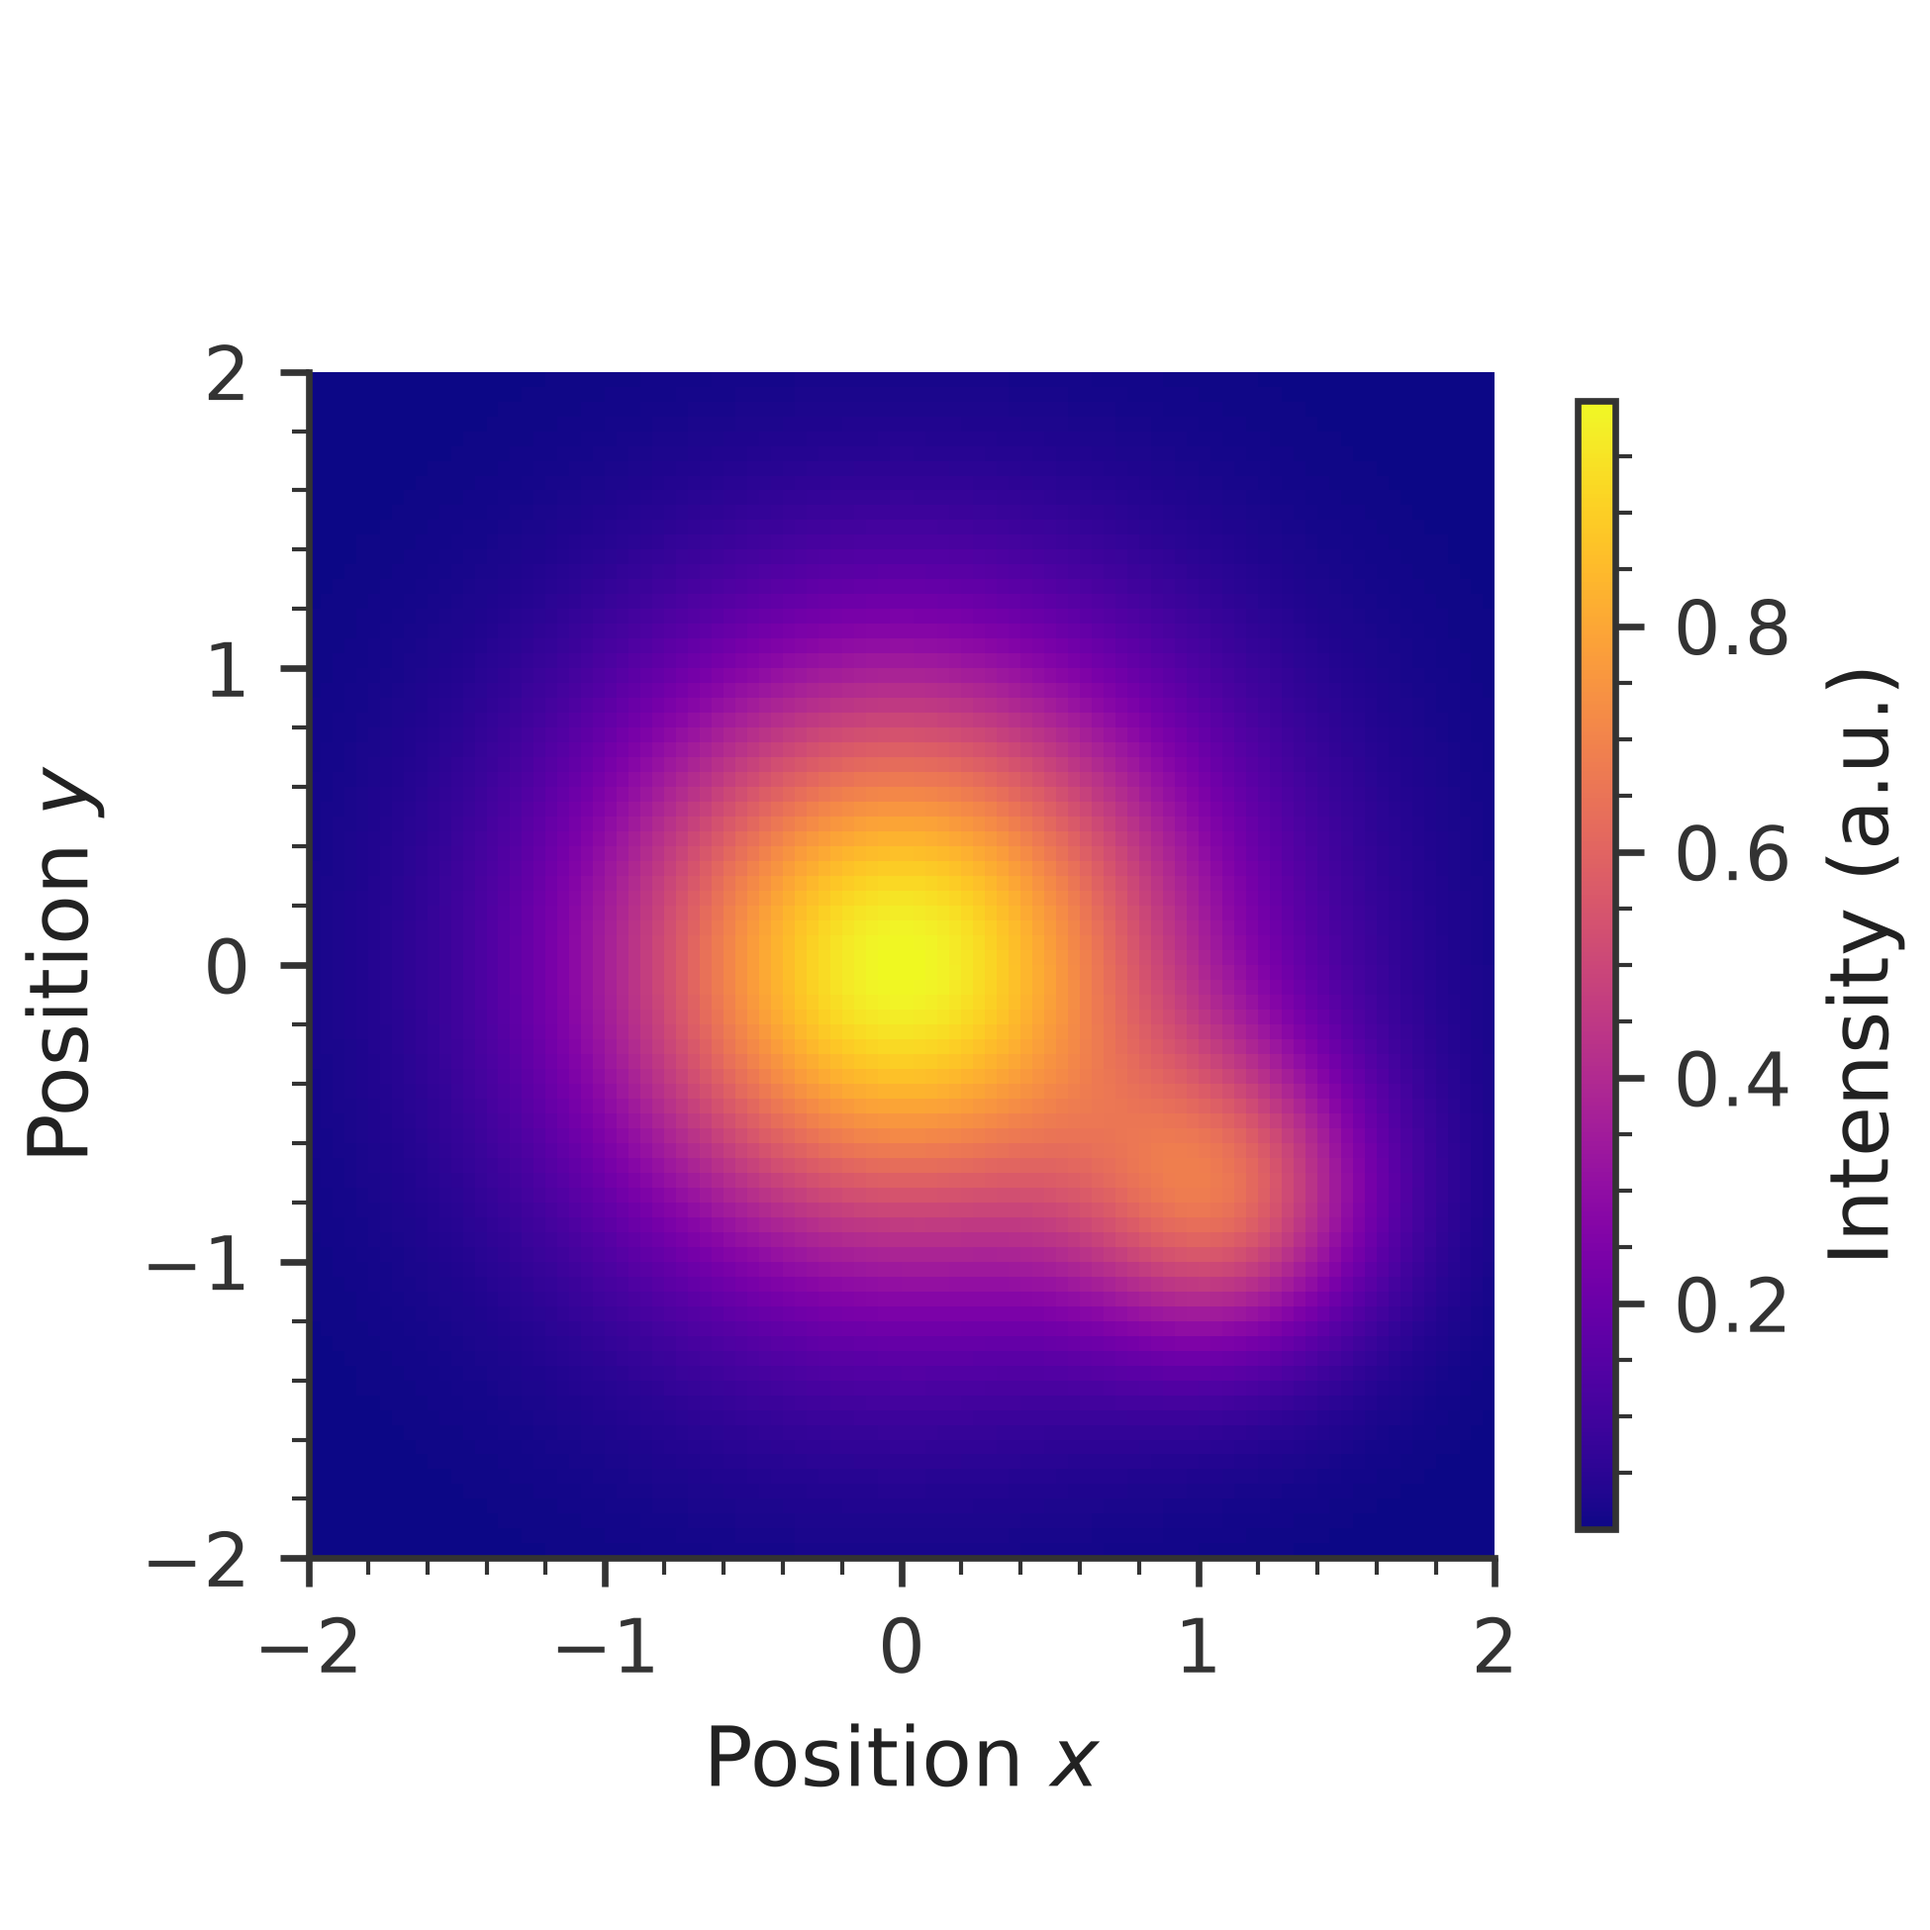
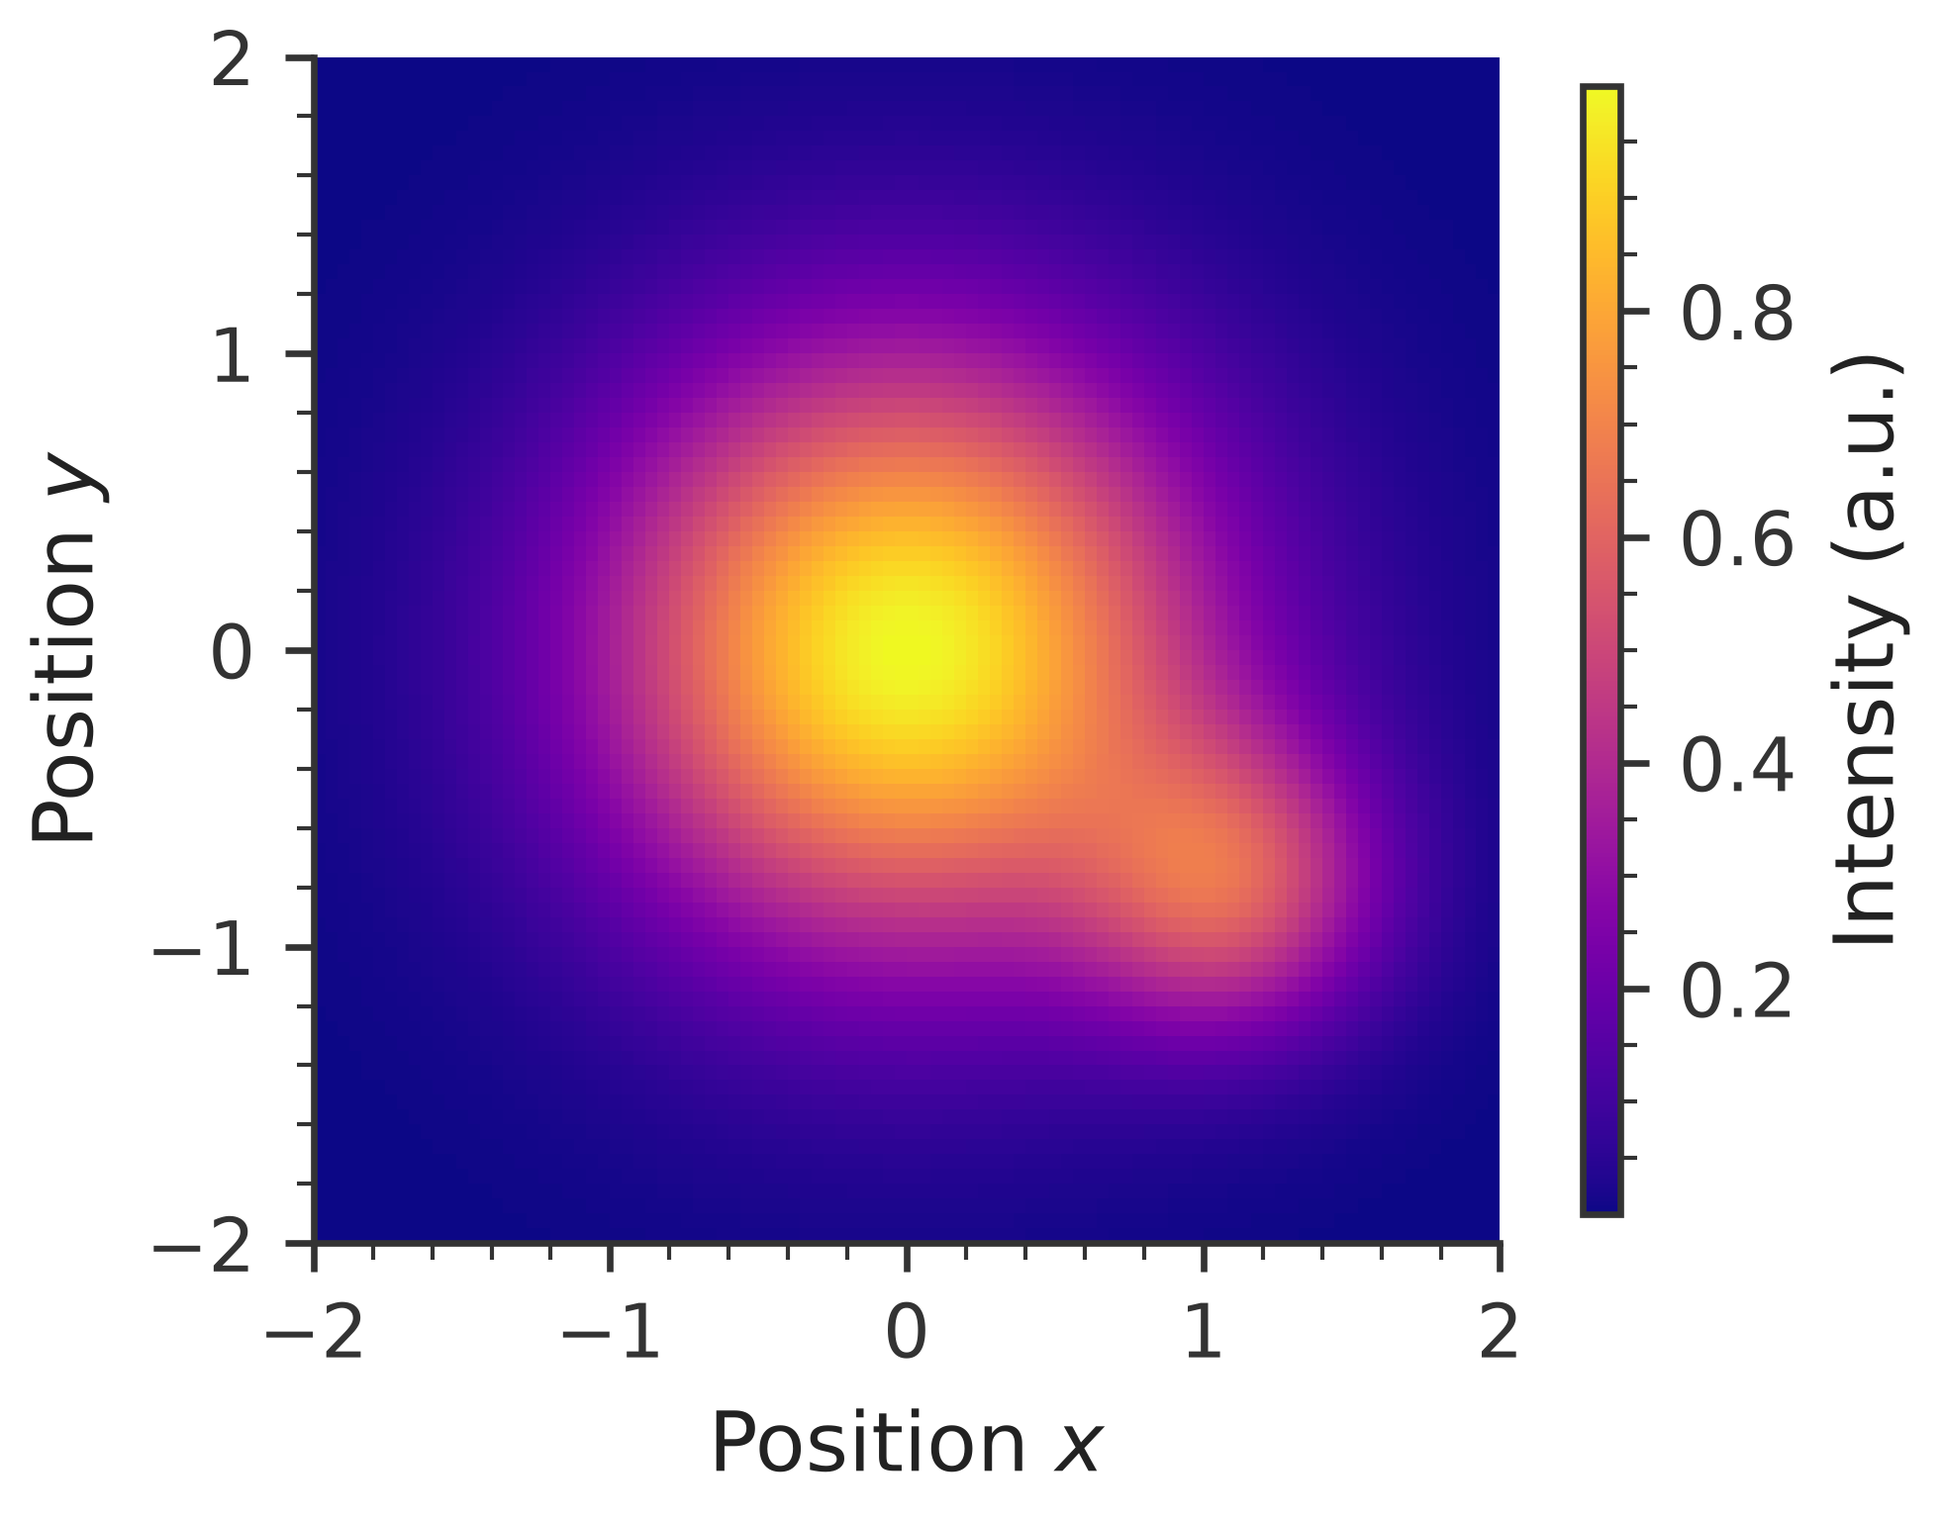
Crop heatmap exports to their content

diff --git a/examples/build_readme_figures.py b/examples/build_readme_figures.py
@@ -77,7 +77,11 @@ def build(name: str) -> None:
             axes.set(xlabel=r"Position $x$", ylabel=r"Position $y$")
             colorbar = figure.colorbar(image, ax=axes, shrink=0.6, aspect=30)
             colorbar.set_label("Intensity (a.u.)")
-            figure.savefig(OUTPUT / f"{name}_heatmap.png")
+            figure.savefig(
+                OUTPUT / f"{name}_heatmap.png",
+                bbox_inches="tight",
+                pad_inches=0.05,
+            )
             plt.close(figure)
 
 
